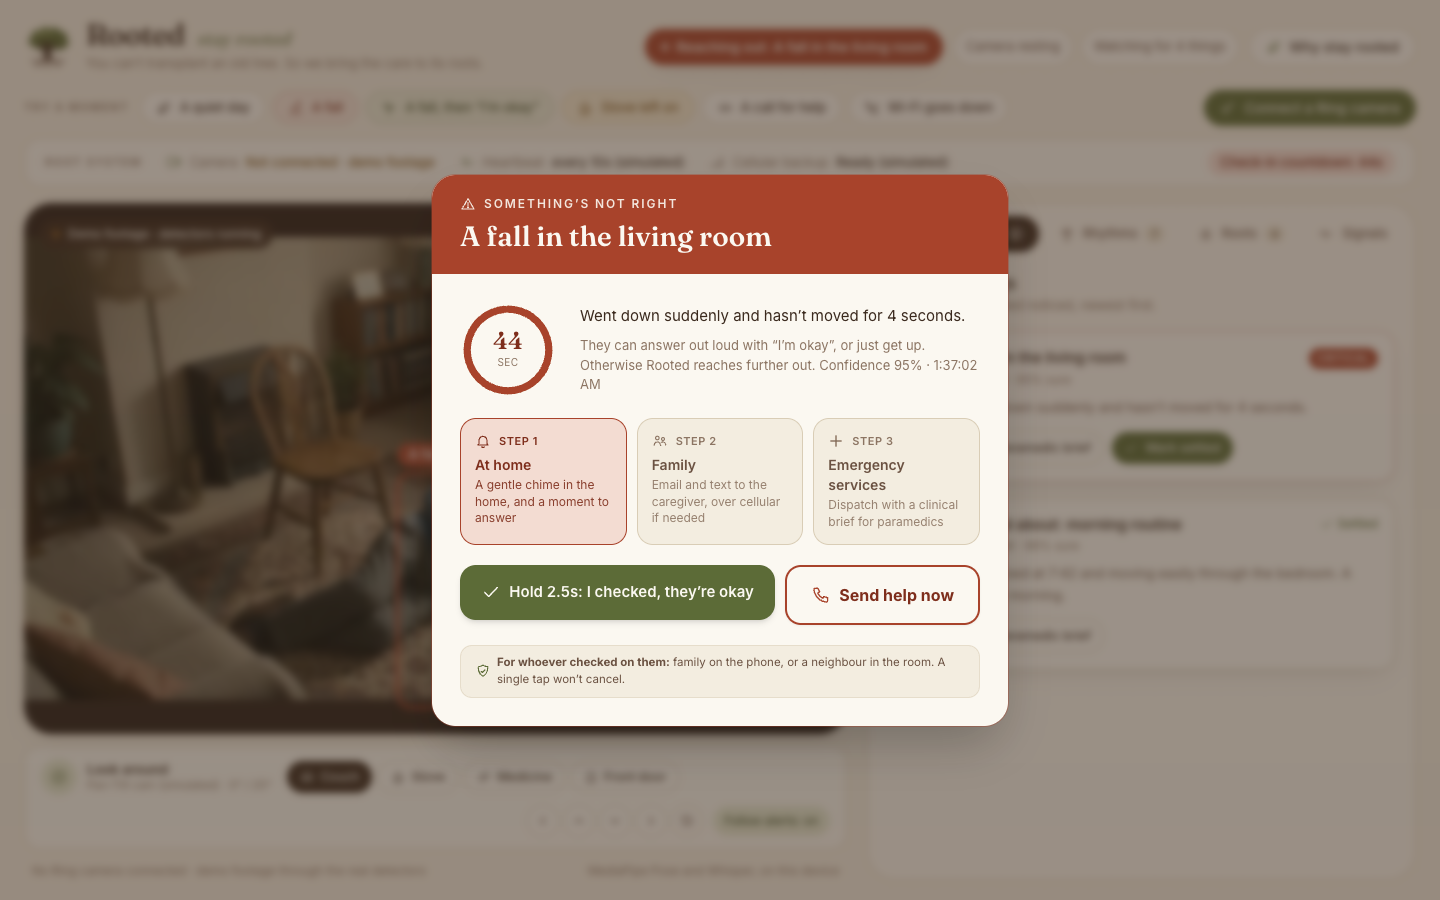
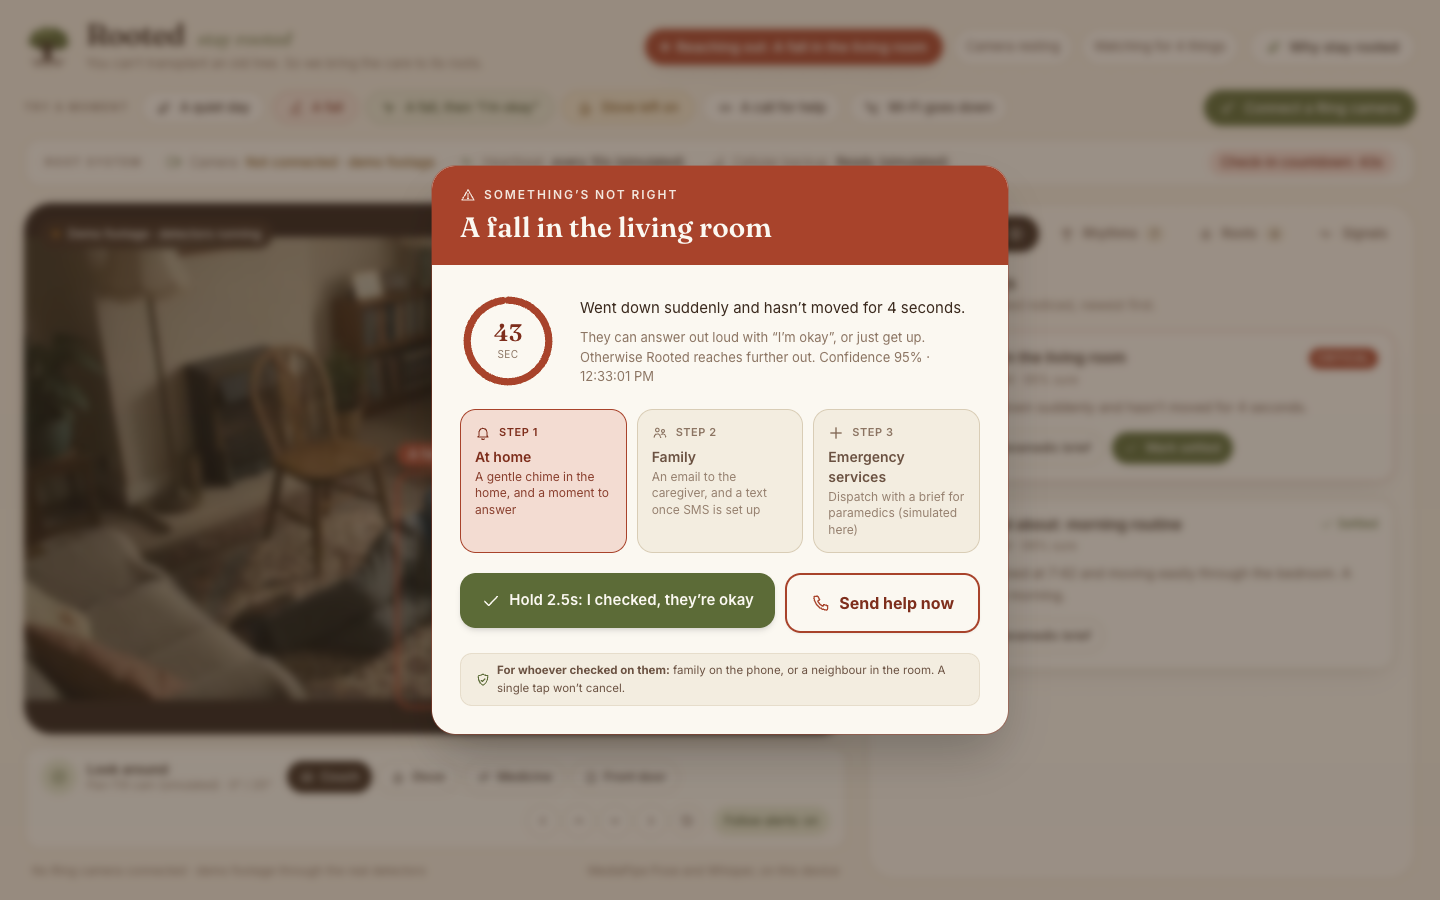
Send each family note once per fall; README screenshots with the Bedrock brief
Whisper's overlapping windows could hear 'I'm okay' twice before the paused
state reached the next render, so the family got the same email twice and the
timeline note was added twice. Each note now goes out once per fall. The README
screenshots now show the brief written by Claude on Bedrock and the corrected
step-2 text.

Changed region(s): [[0.2812, 0.1556, 0.7188, 0.84]]

diff --git a/app/page.tsx b/app/page.tsx
@@ -187,12 +187,19 @@ export default function Dashboard() {
     failSafeSentinelProcessor.armDeadMansSwitch(incident)
   }, [])
 
-  const sendFamilyUpdate = (incident: CareIncident, update: 'says_okay' | 'got_up') =>
+  // Each note goes out once per fall: Whisper's overlapping windows can hear "I'm okay" twice
+  // before the paused state reaches the next render
+  const sentUpdates = useRef(new Set<string>())
+  const sendFamilyUpdate = (incident: CareIncident, update: 'says_okay' | 'got_up') => {
+    const key = `${incident.id}:${update}`
+    if (sentUpdates.current.has(key)) return
+    sentUpdates.current.add(key)
     fetch('/api/care/escalation', {
       method: 'POST',
       headers: { 'Content-Type': 'application/json' },
       body: JSON.stringify({ incident, level: 2, action: 'FAMILY_UPDATE', update }),
     }).catch(console.error)
+  }
 
   // Stand the alert down because the person answered for themselves, and note it in Growth rings
   const resolveIncident = useCallback((incident: CareIncident, reason: string, note: string) => {
@@ -210,6 +217,7 @@ export default function Dashboard() {
     const esc = escalationRef.current
     if (!incident || !esc.active || esc.paused) return
     if (incident.type === 'fall_detected' && fallDetectionProcessor.onFloor) {
+      if (sentUpdates.current.has(`${incident.id}:says_okay`)) return // already heard it for this fall
       failSafeSentinelProcessor.pauseForOkay(`Heard “${phrase}”`)
       setIncidents((prev) =>
         prev.map((inc) => (inc.id === incident.id ? { ...inc, description: `${inc.description} Said “${phrase}” from the floor.` } : inc))
